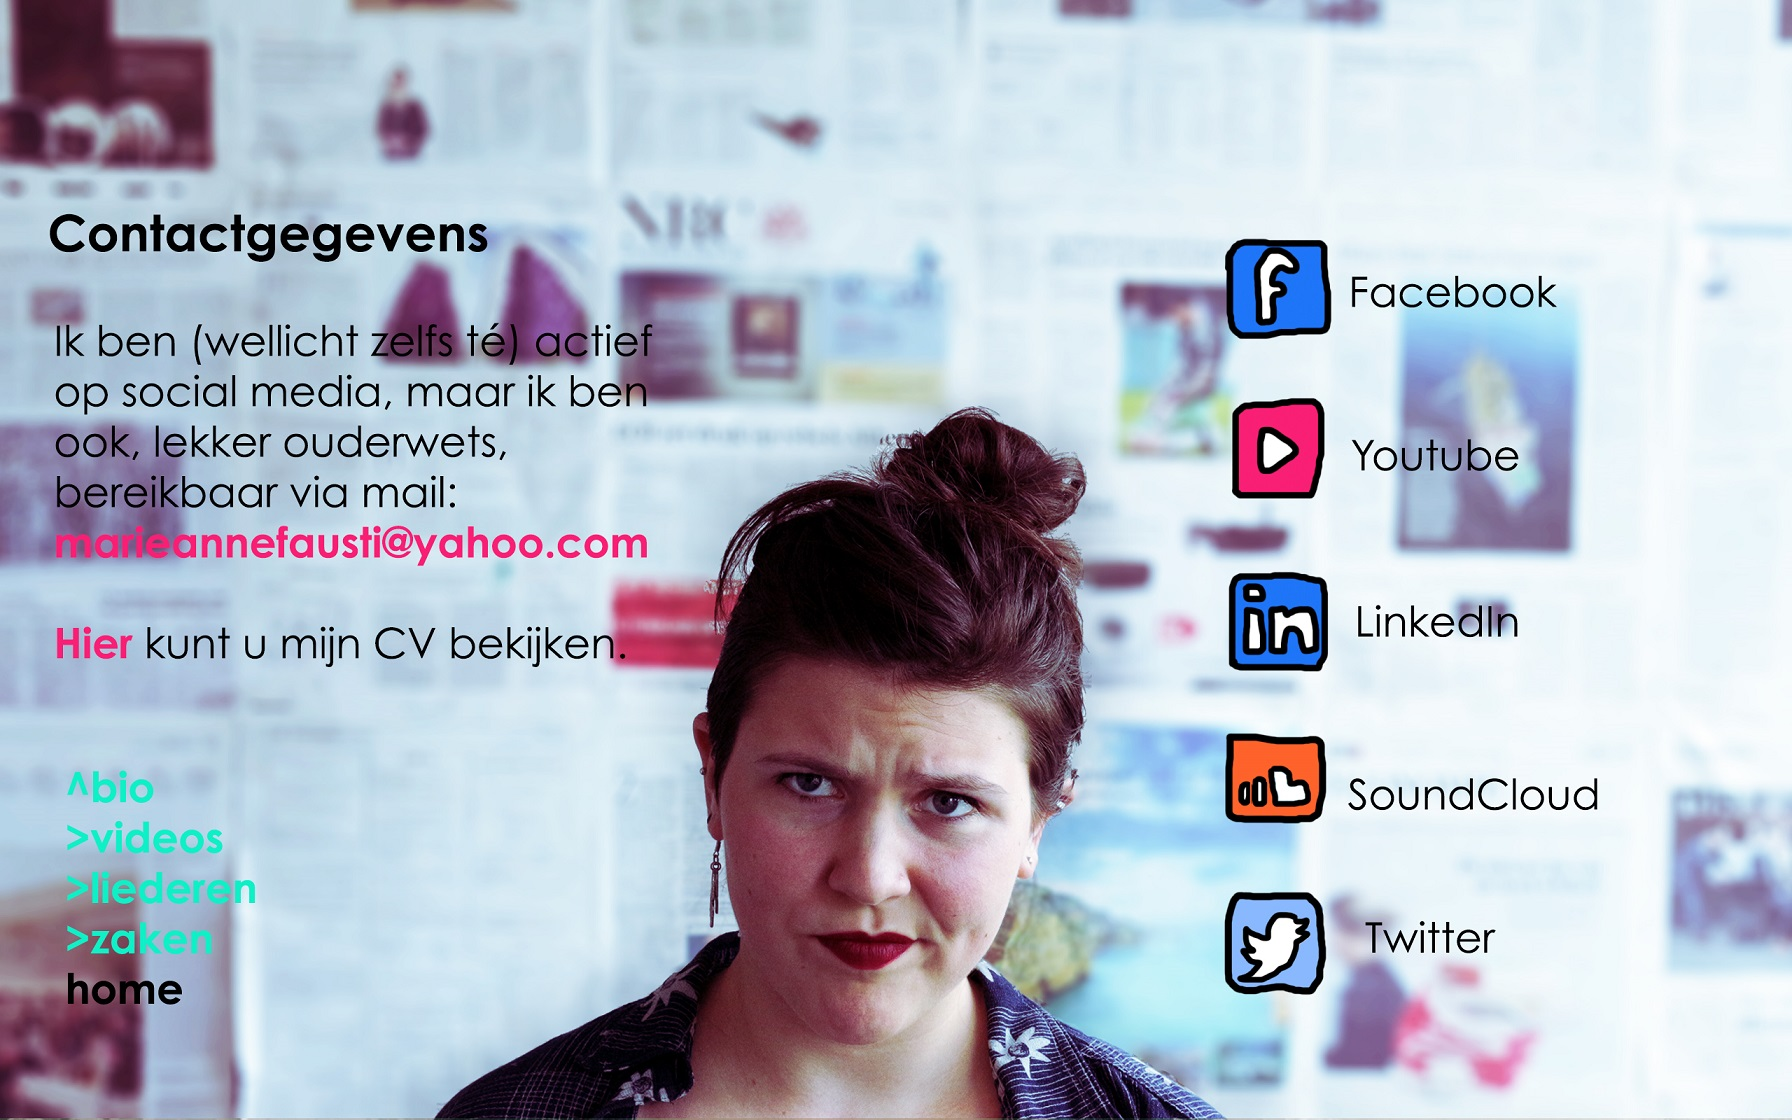
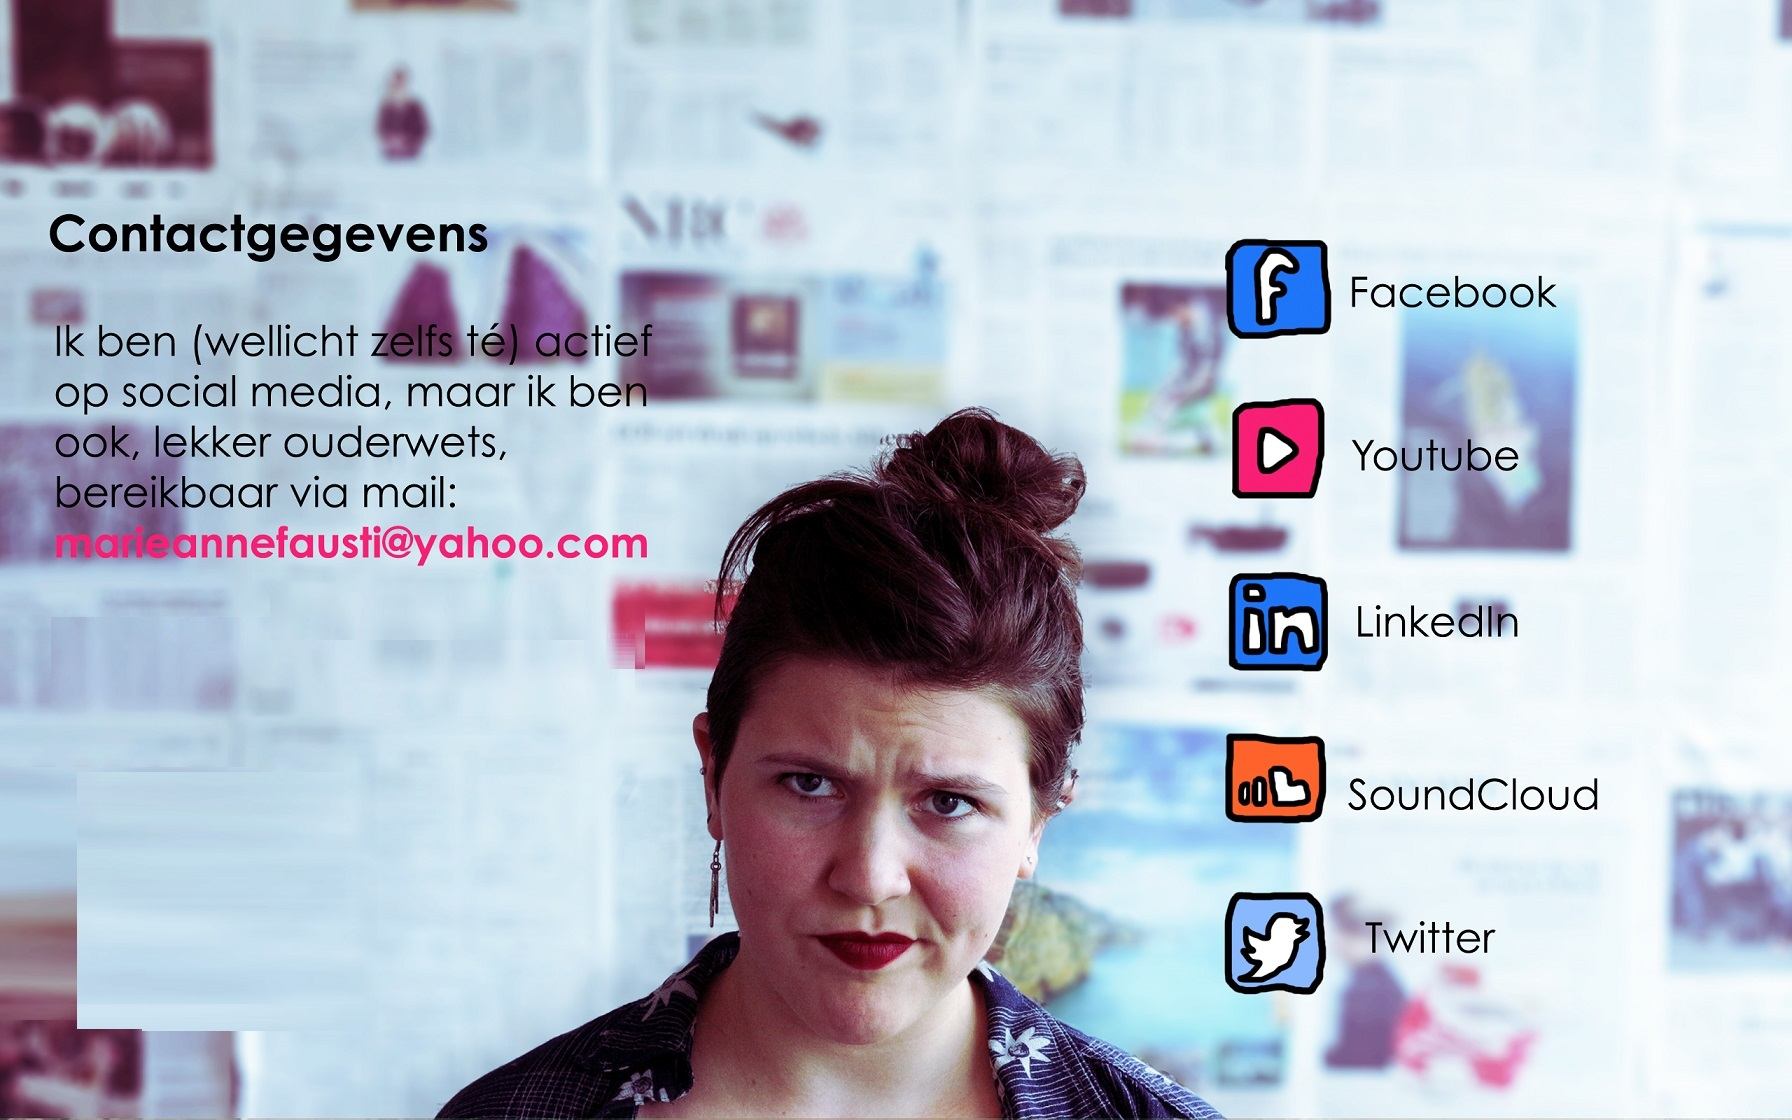
pocket navigation - prototype in bio2

Changed region(s): [[0.0, 0.6875, 0.1562, 0.9375], [0.0312, 0.5312, 0.375, 0.5938]]

diff --git a/site/index.html b/site/index.html
@@ -84,15 +84,30 @@
       
       <section id="section_1-3" class="bio_2 page row next-item-bottom bkg_bio2 bkg_img nav_arrow_right nav_arrow_up">
         <span class="page_size"></span><span class="page_name">section_1-3 bio_2</span>
-        <!--p id="paragraph_bio2">
-          Ik ben (wellicht zelfs té) actief 
-          op social media, maar ik ben
-          ook, lekker ouderwets, 
-          bereikbaar via mail: 
-          marieannefausti@yahoo.com
-
+        
+        <nav class="cv_melding">
           <a target="_blank" href="doc/curricula/favst_cv.pdf">Hier</a> kunt u mijn CV bekijken.
-        </p-->
+        </nav>
+        
+        <nav class="pocket_menu_nav bottom_left">
+          <ul>
+            <li class="cyan">^bio</li>
+            <li class="cyan"><a target="_self" onclick="javascript:pageScroller($('#section_2-1'))">>videos</a></li>
+            <li class="cyan"><a target="_self" onclick="javascript:pageScroller($('#section_3-1'))">>liederen</a></li>
+            <li class="cyan"><a target="_self" onclick="javascript:pageScroller($('#section_4-1'))">>zaken</a></li>
+            <li class="black"><a target="_self" onclick="javascript:pageScroller($('#section_1-1'))">home</a></li>
+          </ul>
+        </nav>
+
+        <nav class="bio_professional_nav">
+          <ul>
+            <li class="facebook_item"><a href="https://www.facebook.com/hamsterpate" target="_blank">Facebook</a></li>
+            <li class="youtube_item"><a href="https://www.youtube.com/user/MarieAnneRocks" target="_blank">YouTube</a></li>
+            <li class="linkedin_item"><a href="https://www.linkedin.com/profile/view?id=264219619" target="_blank">LinkedIn</a></li>
+            <li class="soundcloud_item"><a href="" target="_blank">SoundCloud</a></li>
+            <li class="twitter_item"><a href="" target="_blank">Twitter</a></li>
+          </ul>
+        </nav>
       </section>
     </section>
     <!-- END COLUMN 1 - BIO -->

diff --git a/site/css/style.css b/site/css/style.css
@@ -151,8 +151,8 @@ HOME PAGE STUFF
   background:url('img/draw/favst_logo.png');
   background-size: 100% 100%;
   margin: 0 auto;
-  width:378px;
-  height:236px;
+  width:460px;
+  height:300px;
   position: relative;
 }
 
@@ -167,13 +167,13 @@ HOME PAGE STUFF
 
 .favst_logo span {
   position: absolute;
-  margin-left: 5px;
+  margin-left: 35px;
   bottom: -60px;
   font-size: 1.6em;
   text-shadow: 2px 2px 1px rgba(255,255,255,1);
 }
 
-.home_page_professional_nav ul, .home_page_site_nav ul{
+.home_page_professional_nav ul, .home_page_site_nav ul, .pocket_menu_nav ul, .bio_professional_nav ul {
   list-style-type: none;
 }
 
@@ -212,9 +212,34 @@ HOME PAGE STUFF
   text-shadow: 2px 2px 1px rgba(255,255,255,1);
 }
 
+.pocket_menu_nav {
+  position: absolute;
+  font-size: 2em;
+}
+
+.pocket_menu_nav a {
+  color: inherit;
+}
+
+.pocket_menu_nav a:hover {
+  color: yellow;
+}
+
+.pocket_menu_nav.bottom_left {
+  bottom: 5%;
+  left: 3%;
+}
+
 .home_page_professional_nav {
   width: 400px;
   margin: 15px auto 120px;
+}
+
+.bio_professional_nav {
+  position: absolute;
+  font-size: 2em;
+  right: 15%;
+  
 }
 
 .home_page_site_nav {
@@ -471,8 +496,10 @@ LARGE SCREEN TYPE SIZES
 COLOR GRID AND DIVIDER BACKGROUNDS
 ******************************************************************/
 .azur             { color: #3e94d1; }
-.groenstaat { color: #2c9364; }
-.lichtbruin { color: #d8cba9; }
+.groenstaat  { color: #2c9364; }
+.lichtbruin  { color: #d8cba9; }
+.cyan             { color: #11efc6; }
+.black           { color: black; }
 
 .bkg_white  {
   background-color: white;

diff --git a/site/js/scripts.js b/site/js/scripts.js
@@ -118,7 +118,7 @@ var verticalScroller = function(backwards) {
 var pageScroller = function($targetDiv) {
   $nextContainer = $targetDiv || $(this);
   $currentPage = $nextContainer;
-    
+
   var scrollObject = { 
       scrollTop: $nextContainer.offset().top, 
       scrollLeft: $nextContainer.offset().left 
@@ -127,7 +127,7 @@ var pageScroller = function($targetDiv) {
   
   // adjust url hash in page history
   location.hash = $currentPage.prop('id');
-  return false;
+  //return false;
 }
 
 $(document).ready(function() {
